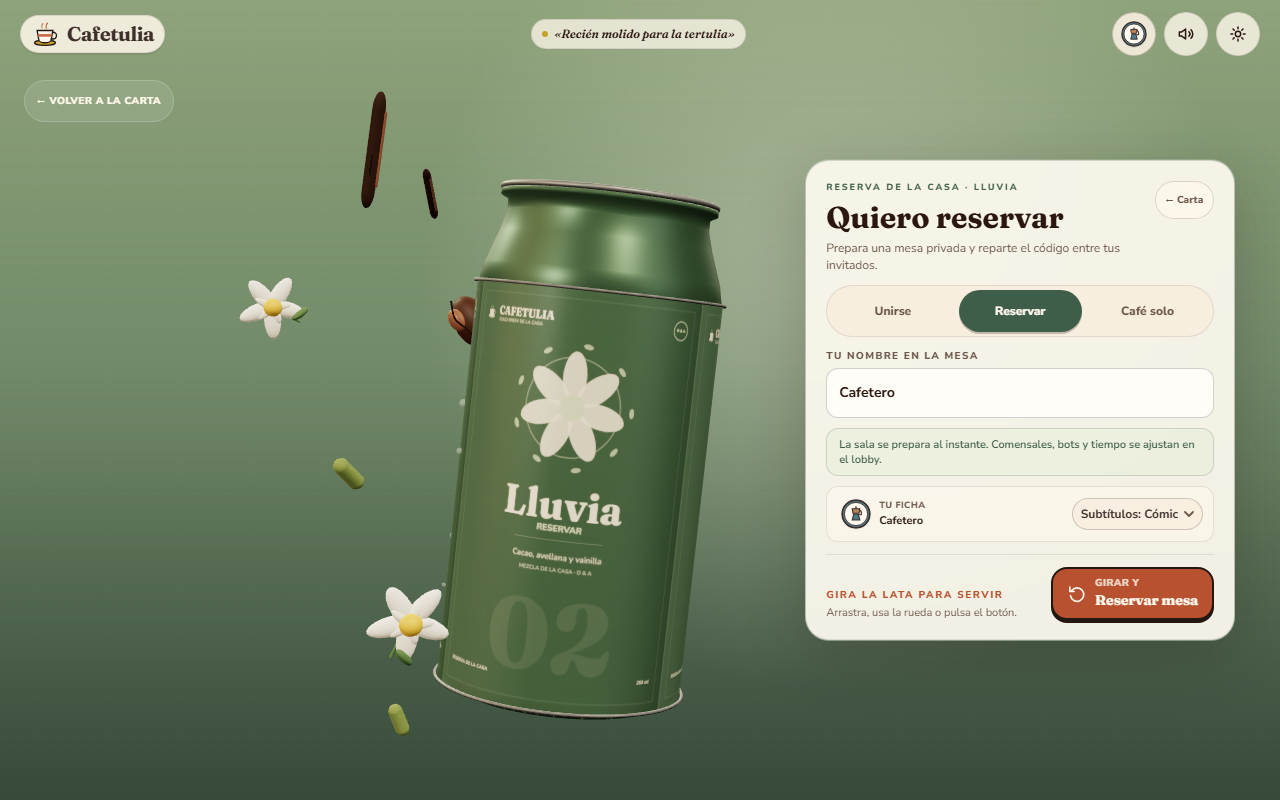
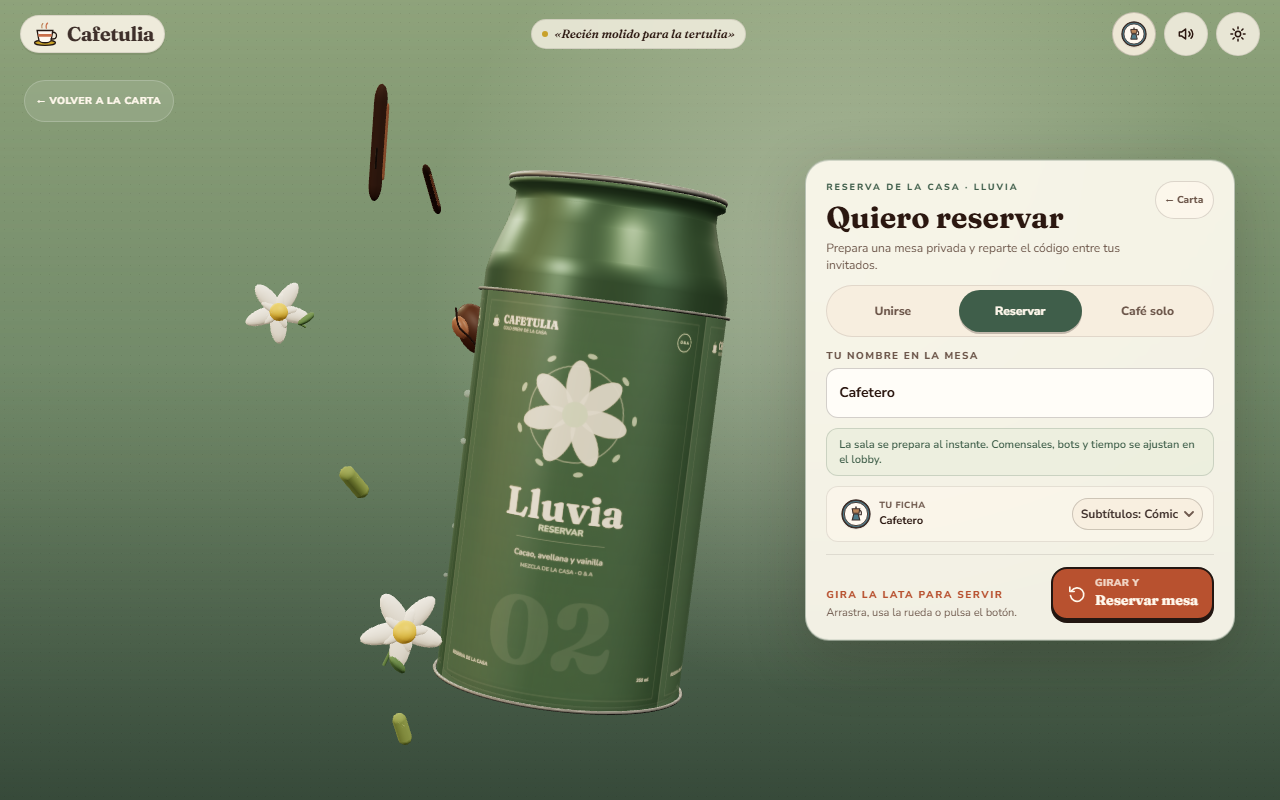
feat(menu): scroll de un notch, movimiento del lobby y ajuste de etiqueta

diff --git a/apps/web/src/title/TitleExperience.tsx b/apps/web/src/title/TitleExperience.tsx
@@ -775,6 +775,39 @@ export function TitleExperience(): React.ReactElement {
     return () => window.clearInterval(timer);
   }, [reducedMotion]);
 
+  // A single wheel notch on the poster commits the whole transition to the
+  // reservation card. Once the user is at the card, the wheel belongs to the
+  // can (mode switching), not to the page.
+  useEffect(() => {
+    const element = scrollRef.current;
+    if (!element) return;
+    let locked = false;
+    let unlockTimer = 0;
+    const onWheel = (event: WheelEvent) => {
+      if (event.ctrlKey || event.deltaY <= 0) return;
+      const atPoster = element.scrollTop < element.clientHeight * 0.12;
+      if (!atPoster) return;
+      event.preventDefault();
+      if (locked) return;
+      locked = true;
+      element.scrollTo({
+        top: element.clientHeight,
+        behavior: reducedMotion ? 'auto' : 'smooth',
+      });
+      unlockTimer = window.setTimeout(
+        () => {
+          locked = false;
+        },
+        reducedMotion ? 120 : 900,
+      );
+    };
+    element.addEventListener('wheel', onWheel, { passive: false });
+    return () => {
+      element.removeEventListener('wheel', onWheel);
+      window.clearTimeout(unlockTimer);
+    };
+  }, [reducedMotion]);
+
   const handleModeChange = (next: MenuMode) => {
     setMode(next);
     setHasInteracted(true);

diff --git a/apps/web/src/title/CoffeeMenuScene.tsx b/apps/web/src/title/CoffeeMenuScene.tsx
@@ -174,18 +174,18 @@ function CanModel({
       {MENU_MODES.map((item, index) => (
         <mesh
           key={item.id}
-          position={[0, 1.12, 0]}
+          position={[0, 1.06, 0]}
           rotation={[0, -Math.PI / 3, 0]}
           renderOrder={index + 1}
         >
           <cylinderGeometry
-            args={[0.656 + index * 0.0006, 0.656 + index * 0.0006, 2.12, 96, 1, true]}
+            args={[0.656 + index * 0.0006, 0.656 + index * 0.0006, 2.04, 96, 1, true]}
           />
           <primitive object={labelMaterials[item.id]} attach="material" />
         </mesh>
       ))}
       {/* Top and bottom printed edges */}
-      {[0.065, 2.175].map((y) => (
+      {[0.04, 2.08].map((y) => (
         <mesh key={y} position={[0, y, 0]} rotation={[Math.PI / 2, 0, 0]} material={aluminumDark}>
           <torusGeometry args={[0.669, 0.009, 6, 96]} />
         </mesh>

diff --git a/apps/web/src/title/LobbyFloatingIngredients.tsx b/apps/web/src/title/LobbyFloatingIngredients.tsx
@@ -408,7 +408,7 @@ export function LobbyFloatingIngredients(): React.ReactElement {
             filter: `blur(${piece.blur}px) drop-shadow(0 10px 18px rgba(35, 23, 18, 0.18))`,
             ['--lobby-rotate' as string]: `${piece.rotate}deg`,
             animationDelay: `${piece.delay}s`,
-            animationDuration: `${piece.duration}s`,
+            animationDuration: `${piece.duration * (piece.layer === 'far' ? 0.8 : piece.layer === 'mid' ? 0.65 : 0.55)}s`,
             zIndex: piece.layer === 'far' ? 1 : piece.layer === 'mid' ? 2 : 3,
           }}
         >

diff --git a/apps/web/src/index.css b/apps/web/src/index.css
@@ -358,7 +358,7 @@
     transform: translate3d(0, 0, 0) rotate(var(--lobby-rotate, 0deg));
   }
   50% {
-    transform: translate3d(10px, -16px, 0) rotate(calc(var(--lobby-rotate, 0deg) + 9deg));
+    transform: translate3d(18px, -28px, 0) rotate(calc(var(--lobby-rotate, 0deg) + 14deg));
   }
 }
 .lobby-ingredient {

diff --git a/docs/SESIONES.md b/docs/SESIONES.md
@@ -12,9 +12,11 @@
 **Hecho:**
 - La portada prioriza **CAFETULIA** como título enorme; el mundo/mezcla (`Tertulia`, `Lluvia`, `Noche`) pasa a etiqueta secundaria con sus notas.
 - El scroll ahora es una secuencia: la lata **gira una vuelta completa**, desciende, la portada se desvanece y la carta de reservas sube desde abajo. La carta no se cruza con el título: primera mitad escena, segunda mitad reserva.
+- Un solo gesto de rueda desde el póster lanza la transición completa hasta el menú; el scroll manual fino sigue disponible.
 - Fuera el barrido duro de color: el fondo usa dos capas con máscara de gradiente y crossfade de 1 s; los ingredientes entran y salen con **opacidad y desplazamiento laterales**, y la lata funde etiqueta y color del cuerpo.
 - Ingredientes más táctiles: granos con cresta curva y brillo, flores de café con pétalos interiores, tallo y hoja, piel de naranja más gruesa, chocolate en trozos biselados y vainas de vainilla compactas.
-- Lobby: tres capas de ingredientes de fondo (lejos/medio/cerca) con distinto tamaño, opacidad y **blur**, en movimiento lento; panel más translúcido y ajustes de sala plegables en móvil.
+- Lobby: tres capas de ingredientes de fondo (lejos/medio/cerca) con distinto tamaño, opacidad y **blur**, en movimiento más vivo; panel más translúcido y ajustes de sala plegables en móvil.
+- La etiqueta de la lata baja su corte superior para que el hombro metálico respire y la lata no se vea tan estirada.
 - La mesa 2D con comensales se mantiene como centro del lobby.
 
 **Decisiones:** D-092, D-093 y D-094.

diff --git a/docs/DECISIONES.md b/docs/DECISIONES.md
@@ -100,3 +100,4 @@ Estados posibles: **Cerrada**, **Pendiente**, **Aplazada**.
 | D-092 | 2026-11-24 | La portada prioriza el nombre del juego; la mezcla/mundo pasa a etiqueta secundaria | Cerrada | CAFETULIA es el titular enorme; Tertulia/Lluvia/Noche viven en el chip de la casa, la etiqueta de la lata y la carta. No vendemos un producto: vendemos un juego |
 | D-093 | 2026-11-24 | El scroll de portada es una secuencia cinematográfica, no un simple cambio de opacidad | Cerrada | La lata gira una vuelta completa, desciende y la carta sube; portada y carta no se solapan en el mismo tramo. Sin barrido duro de color: fondo en gradiente con crossfade |
 | D-094 | 2026-11-24 | El lobby tiene fondo de ingredientes en tres capas con blur y profundidad | Cerrada | Capas lejos/medio/cerca con tamaños, opacidades y velocidades distintas; el panel es translúcido y los ajustes se pliegan en móvil |
+| D-095 | 2026-11-24 | Un solo gesto de rueda completa el paso del póster al menú; el fondo del lobby se acelera y la etiqueta de la lata baja su corte superior | Cerrada | El usuario pidió un acceso directo al menú con un notch, más vida en el fondo del lobby y un hombro metálico más generoso en la lata |
